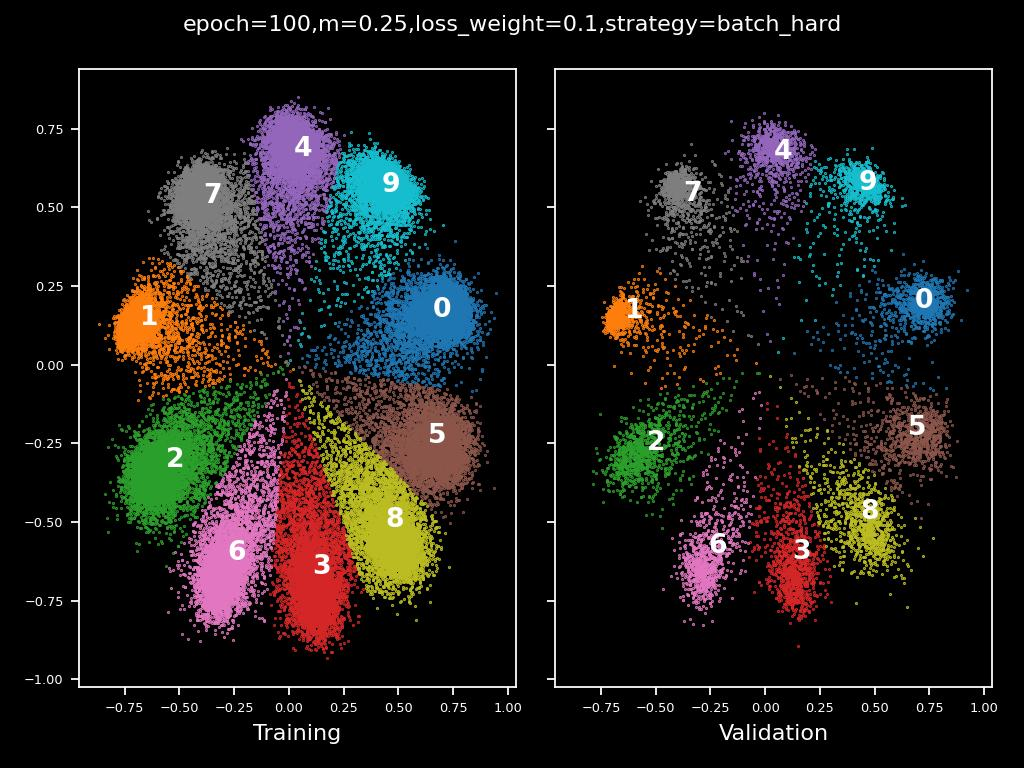
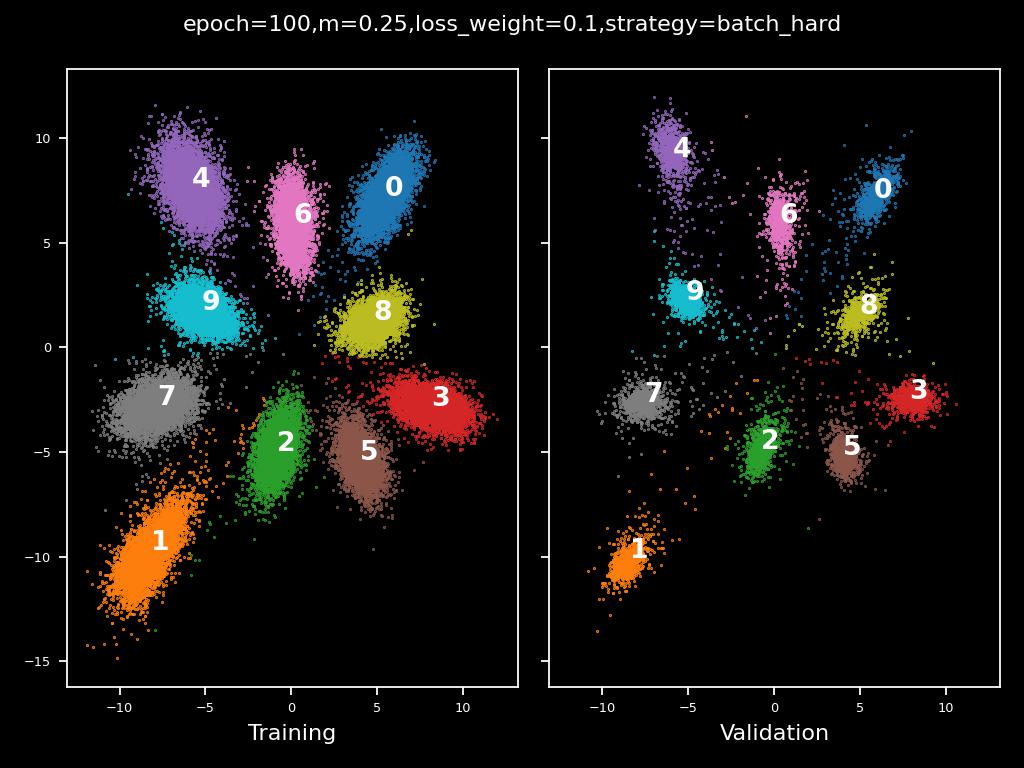
CORRECT TRIPLET LOSS

diff --git a/common/cli_parser.py b/common/cli_parser.py
@@ -111,7 +111,7 @@ def get_triplet_loss_args():
     parser = get_common_parser("MNIST - Triplet Loss")
     parser.add_argument("-m", "--margin", type=float, default=0.25, help="Margin in Triplet-Loss")
     parser.add_argument("--strategy", type=str, default="batch_hard", help="'batch_hard' or 'batch_all'")
-    parser.add_argument("--loss-weight", type=float, default=0.01, help="Loss weight for Triplet-Loss")
+    parser.add_argument("--loss-weight", type=float, default=0.1, help="Loss weight for Triplet-Loss")
     parser.add_argument("--break-epoch", type=int, default=0, help="Epoch to incorporate Triplet-Loss")
     parser.add_argument("--normalize", action="store_true", help="Normalize features before loss functions")
     parser.add_argument("--sqrt-dist", dest="squared", action="store_false", help="Use squared distances.")
@@ -125,18 +125,11 @@ def get_triplet_center_loss_args():
                         help="Strategy of sampling triplets, must be 'batch_hard' or 'batch_all'")
     parser.add_argument("--center-loss-weight", dest="w_ctr", type=float, default=0.1,
                         help="Loss weight for CenterLoss")
-    parser.add_argument("--triplet-loss-weight", dest="w_trp", type=float, default=0.01,
+    parser.add_argument("--triplet-loss-weight", dest="w_trp", type=float, default=0.1,
                         help="Loss weight for TripletLoss_norm")
     parser.add_argument("--break-epoch", type=int, default=0, help="Epoch to incorporate Triplet-Loss")
     parser.add_argument("--normalize", action="store_true", help="Normalize features before loss functions")
     parser.add_argument("--sqrt-dist", dest="squared", action="store_false", help="Use squared distances.")
-    return parser.parse_args()
-
-
-def get_tripletcenter_loss_args():
-    parser = get_common_parser("MNIST - TripletCenter Loss")
-    parser.add_argument("-m", "--margin", type=float, default=50.0, help="Margin in loss")
-    parser.add_argument("--loss-weight", type=float, default=1.0, help="Loss weight for TripletCenter Loss")
     return parser.parse_args()
 
 

diff --git a/main_scripts/train_TripletLoss.py b/main_scripts/train_TripletLoss.py
@@ -59,7 +59,7 @@ def main(args):
     ################
     # Visualizer
     ################
-    name = "TripletLoss_norm" if args.normalize else "TripletLoss_norm"
+    name = "TripletLoss_norm" if args.normalize else "TripletLoss"
     visualizer = FeatureVisualizer(name, len(ds_train), len(ds_valid), args.batch_size,
                                    args.eval_epoch, args.vis_freq, args.use_bias, args.dark_theme)
 
@@ -123,8 +123,6 @@ def train_step(epoch, model, dataset, criterion, optimizer, visualizer, args):
             progress_bar.update(args.log_freq)
 
         # Record Features
-        feats = feats.detach().to("cpu").numpy()
-        preds = preds.detach().to("cpu").numpy()
         visualizer.record(epoch, feats, preds)
 
     progress_bar.update(len(dataset) - progress_bar.n)
@@ -173,8 +171,6 @@ def valid_step(epoch, model, dataset, criterion, visualizer, args):
             progress_bar.update(args.log_freq)
 
         # Record Features
-        feats = feats.to("cpu").numpy()
-        preds = preds.to("cpu").numpy()
         visualizer.record(epoch, feats, preds)
 
     progress_bar.update(len(dataset) - progress_bar.n)

diff --git a/main_scripts/train_ArcFaceLoss.py b/main_scripts/train_ArcFaceLoss.py
@@ -111,8 +111,6 @@ def train_step(epoch, model, dataset, criterion, optimizer, visualizer, args):
             progress_bar.update(args.log_freq)
 
         # Record Features
-        feats = feats.detach().to("cpu").numpy()
-        preds = preds.detach().to("cpu").numpy()
         visualizer.record(epoch, feats, preds)
 
     progress_bar.update(len(dataset) - progress_bar.n)
@@ -151,8 +149,6 @@ def valid_step(epoch, model, dataset, criterion, visualizer, args):
             progress_bar.update(args.log_freq)
 
         # Record Features
-        feats = feats.to("cpu").numpy()
-        preds = preds.to("cpu").numpy()
         visualizer.record(epoch, feats, preds)
 
     progress_bar.update(len(dataset) - progress_bar.n)

diff --git a/main_scripts/train_CenterLoss.py b/main_scripts/train_CenterLoss.py
@@ -115,8 +115,6 @@ def train_step(epoch, model, dataset, criterion, optimizer, visualizer, args):
             progress_bar.update(args.log_freq)
 
         # Record Features
-        feats = feats.detach().to("cpu").numpy()
-        preds = preds.detach().to("cpu").numpy()
         visualizer.record(epoch, feats, preds)
 
     progress_bar.update(len(dataset) - progress_bar.n)
@@ -157,8 +155,6 @@ def valid_step(epoch, model, dataset, criterion, visualizer, args):
             progress_bar.update(args.log_freq)
 
         # Record Features
-        feats = feats.to("cpu").numpy()
-        preds = preds.to("cpu").numpy()
         visualizer.record(epoch, feats, preds)
 
     progress_bar.update(len(dataset) - progress_bar.n)

diff --git a/main_scripts/train_ContrastiveLoss.py b/main_scripts/train_ContrastiveLoss.py
@@ -125,8 +125,6 @@ def train_step(epoch, model, dataset, criterion, optimizer, visualizer, args):
             progress_bar.update(args.log_freq)
 
         # Record Features
-        feats = feats.detach().to("cpu").numpy()
-        preds = preds.detach().to("cpu").numpy()
         visualizer.record(epoch, feats, preds)
 
     progress_bar.update(len(dataset) - progress_bar.n)
@@ -175,8 +173,6 @@ def valid_step(epoch, model, dataset, criterion, visualizer, args):
             progress_bar.update(args.log_freq)
 
         # Record Features
-        feats = feats.to("cpu").numpy()
-        preds = preds.to("cpu").numpy()
         visualizer.record(epoch, feats, preds)
 
     progress_bar.update(len(dataset) - progress_bar.n)

diff --git a/main_scripts/train_CosFaceLoss.py b/main_scripts/train_CosFaceLoss.py
@@ -110,8 +110,6 @@ def train_step(epoch, model, dataset, criterion, optimizer, visualizer, args):
             progress_bar.update(args.log_freq)
 
         # Record Features
-        feats = feats.detach().to("cpu").numpy()
-        preds = preds.detach().to("cpu").numpy()
         visualizer.record(epoch, feats, preds)
 
     progress_bar.update(len(dataset) - progress_bar.n)
@@ -150,8 +148,6 @@ def valid_step(epoch, model, dataset, criterion, visualizer, args):
             progress_bar.update(args.log_freq)
 
         # Record Features
-        feats = feats.to("cpu").numpy()
-        preds = preds.to("cpu").numpy()
         visualizer.record(epoch, feats, preds)
 
     progress_bar.update(len(dataset) - progress_bar.n)

diff --git a/main_scripts/train_FocalLoss.py b/main_scripts/train_FocalLoss.py
@@ -110,8 +110,6 @@ def train_step(epoch, model, dataset, criterion, optimizer, visualizer, args):
             progress_bar.update(args.log_freq)
 
         # Record Features
-        feats = feats.detach().to("cpu").numpy()
-        preds = preds.detach().to("cpu").numpy()
         visualizer.record(epoch, feats, preds)
 
     progress_bar.update(len(dataset) - progress_bar.n)
@@ -150,8 +148,6 @@ def valid_step(epoch, model, dataset, criterion, visualizer, args):
             progress_bar.update(args.log_freq)
 
         # Record Features
-        feats = feats.to("cpu").numpy()
-        preds = preds.to("cpu").numpy()
         visualizer.record(epoch, feats, preds)
 
     progress_bar.update(len(dataset) - progress_bar.n)

diff --git a/main_scripts/train_L-Softmax.py b/main_scripts/train_L-Softmax.py
@@ -110,8 +110,6 @@ def train_step(epoch, model, dataset, criterion, optimizer, visualizer, args):
             progress_bar.update(args.log_freq)
 
         # Record Features
-        feats = feats.detach().to("cpu").numpy()
-        preds = preds.detach().to("cpu").numpy()
         visualizer.record(epoch, feats, preds)
 
     progress_bar.update(len(dataset) - progress_bar.n)
@@ -150,8 +148,6 @@ def valid_step(epoch, model, dataset, criterion, visualizer, args):
             progress_bar.update(args.log_freq)
 
         # Record Features
-        feats = feats.to("cpu").numpy()
-        preds = preds.to("cpu").numpy()
         visualizer.record(epoch, feats, preds)
 
     progress_bar.update(len(dataset) - progress_bar.n)

diff --git a/main_scripts/train_L2-Softmax.py b/main_scripts/train_L2-Softmax.py
@@ -112,8 +112,6 @@ def train_step(epoch, model, dataset, criterion, optimizer, visualizer, args):
             progress_bar.update(args.log_freq)
 
         # Record Features
-        feats = feats.detach().to("cpu").numpy()
-        preds = preds.detach().to("cpu").numpy()
         visualizer.record(epoch, feats, preds)
 
     progress_bar.update(len(dataset) - progress_bar.n)
@@ -153,8 +151,6 @@ def valid_step(epoch, model, dataset, criterion, visualizer, args):
             progress_bar.update(args.log_freq)
 
         # Record Features
-        feats = feats.to("cpu").numpy()
-        preds = preds.to("cpu").numpy()
         visualizer.record(epoch, feats, preds)
 
     progress_bar.update(len(dataset) - progress_bar.n)

diff --git a/main_scripts/train_NormFaceLoss.py b/main_scripts/train_NormFaceLoss.py
@@ -110,8 +110,6 @@ def train_step(epoch, model, dataset, criterion, optimizer, visualizer, args):
             progress_bar.update(args.log_freq)
 
         # Record Features
-        feats = feats.detach().to("cpu").numpy()
-        preds = preds.detach().to("cpu").numpy()
         visualizer.record(epoch, feats, preds)
 
     progress_bar.update(len(dataset) - progress_bar.n)
@@ -150,8 +148,6 @@ def valid_step(epoch, model, dataset, criterion, visualizer, args):
             progress_bar.update(args.log_freq)
 
         # Record Features
-        feats = feats.to("cpu").numpy()
-        preds = preds.to("cpu").numpy()
         visualizer.record(epoch, feats, preds)
 
     progress_bar.update(len(dataset) - progress_bar.n)

diff --git a/main_scripts/train_RingLoss.py b/main_scripts/train_RingLoss.py
@@ -115,8 +115,6 @@ def train_step(epoch, model, dataset, criterion, optimizer, visualizer, args):
             progress_bar.update(args.log_freq)
 
         # Record Features
-        feats = feats.detach().to("cpu").numpy()
-        preds = preds.detach().to("cpu").numpy()
         visualizer.record(epoch, feats, preds)
 
     progress_bar.update(len(dataset) - progress_bar.n)
@@ -160,8 +158,6 @@ def valid_step(epoch, model, dataset, criterion, visualizer, args):
             progress_bar.update(args.log_freq)
 
         # Record Features
-        feats = feats.to("cpu").numpy()
-        preds = preds.to("cpu").numpy()
         visualizer.record(epoch, feats, preds)
 
     progress_bar.update(len(dataset) - progress_bar.n)

diff --git a/main_scripts/train_Softmax.py b/main_scripts/train_Softmax.py
@@ -109,8 +109,6 @@ def train_step(epoch, model, dataset, criterion, optimizer, visualizer, args):
             progress_bar.update(args.log_freq)
 
         # Record Features
-        feats = feats.detach().to("cpu").numpy()
-        preds = preds.detach().to("cpu").numpy()
         visualizer.record(epoch, feats, preds)
 
     progress_bar.update(len(dataset) - progress_bar.n)
@@ -149,8 +147,6 @@ def valid_step(epoch, model, dataset, criterion, visualizer, args):
             progress_bar.update(args.log_freq)
 
         # Record Features
-        feats = feats.to("cpu").numpy()
-        preds = preds.to("cpu").numpy()
         visualizer.record(epoch, feats, preds)
 
     progress_bar.update(len(dataset) - progress_bar.n)
